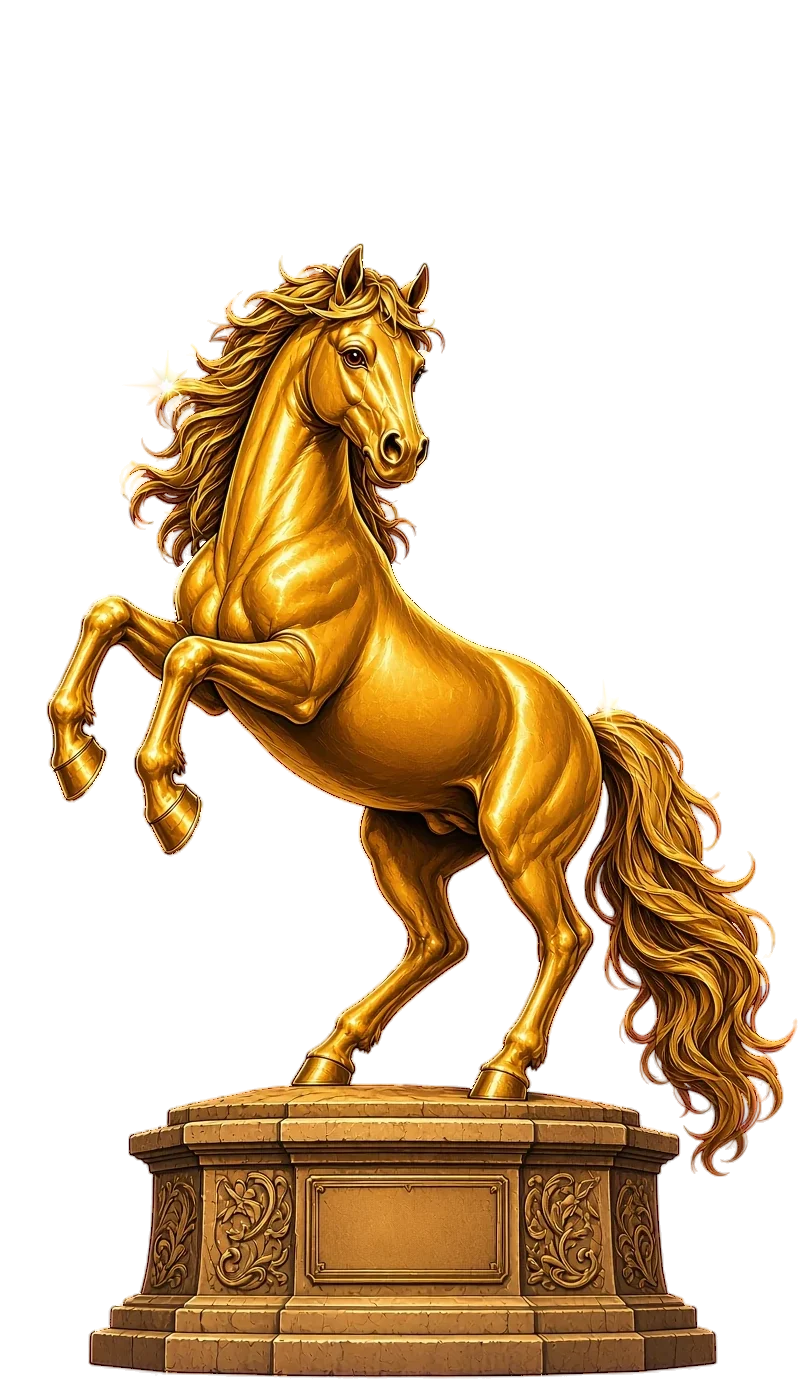
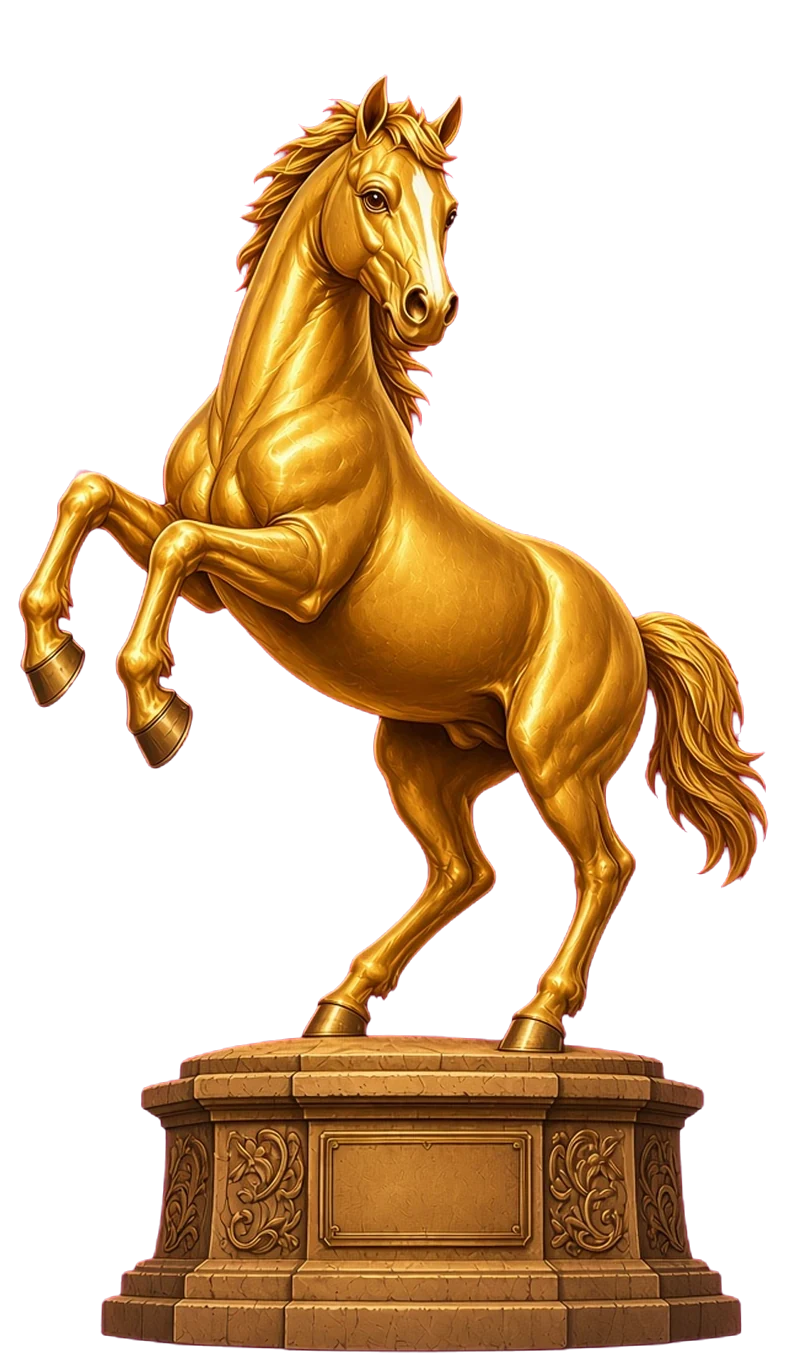
Fire Horse Plaza: Rowdy statue redrawn (bronze/fire/gold), warm fire palette, background repainted with correct paddock horses

diff --git a/fire-horse-plaza/plaza.css b/fire-horse-plaza/plaza.css
@@ -1,15 +1,15 @@
 @font-face { font-family: "Fraunces"; src: url("../fonts/Fraunces.woff2") format("woff2"); font-weight: 100 900; font-display: swap; }
 @font-face { font-family: "Fraunces"; src: url("../fonts/Fraunces-Italic.woff2") format("woff2"); font-weight: 100 900; font-style: italic; font-display: swap; }
-:root { --ink: #fff8ec; --pearl: #fbf1dc; --pink: #ffcf5a; --hot: #e23b2e; --gold: #ffd98a; --plum: #121833; --wine: #5a1414; color-scheme: dark; }
+:root { --ink: #fff8ec; --pearl: #fbf1dc; --pink: #ffcf5a; --hot: #e23b2e; --gold: #ffd98a; --plum: #1e120b; --wine: #5a1414; color-scheme: dark; }
 * { box-sizing: border-box; }
 html { scroll-behavior: smooth; background: var(--plum); }
-body { margin: 0; background: linear-gradient(#121833, #1c2347 60%, #121833); color: var(--ink); font-family: Fraunces, Georgia, serif; overflow-x: hidden; }
+body { margin: 0; background: linear-gradient(#1e120b, #2e1a0f 60%, #1e120b); color: var(--ink); font-family: Fraunces, Georgia, serif; overflow-x: hidden; }
 img { display: block; max-width: 100%; height: auto; }
 .sr-only { position: absolute; width: 1px; height: 1px; padding: 0; margin: -1px; overflow: hidden; clip: rect(0 0 0 0); white-space: nowrap; border: 0; }
 
 .scene { position: fixed; inset: 0; z-index: 0; overflow: hidden; pointer-events: none; }
 .layer { will-change: transform; }
-.sky { position: absolute; inset: -6% 0 0; background: linear-gradient(rgba(18, 24, 51, 0.08), rgba(18, 24, 51, 0.4)), url("art/plaza-bg.webp?v=3") center 70% / cover no-repeat; }
+.sky { position: absolute; inset: -6% 0 0; background: linear-gradient(rgba(30, 18, 11, 0.08), rgba(30, 18, 11, 0.4)), url("art/plaza-bg.webp?v=warm1") center 70% / cover no-repeat; }
 .glitter { position: absolute; inset: 0; }
 .gl { position: absolute; width: 5px; height: 5px; border-radius: 50%; background: #fff; box-shadow: 0 0 8px 3px rgba(255, 210, 120, 0.85); animation: twinkle var(--d, 3s) ease-in-out var(--delay, 0s) infinite; }
 @keyframes twinkle { 0%, 100% { opacity: 0.05; transform: scale(0.6); } 50% { opacity: 1; transform: scale(1.2); } }
@@ -17,7 +17,7 @@ body.entering .scene { animation: fade-in 1s ease-out both; }
 @keyframes fade-in { from { opacity: 0; transform: scale(1.08); } to { opacity: 1; transform: none; } }
 
 .fv-top { position: fixed; z-index: 5; top: 0; left: 0; right: 0; display: flex; justify-content: space-between; align-items: center; padding: 0.8rem 1rem; padding-top: max(0.8rem, env(safe-area-inset-top)); }
-.back, .mini-cta { font-weight: 700; color: var(--ink); text-decoration: none; padding: 0.45rem 0.9rem; border-radius: 999px; background: rgba(18, 24, 51, 0.82); border: 2px solid rgba(255, 215, 140, 0.6); }
+.back, .mini-cta { font-weight: 700; color: var(--ink); text-decoration: none; padding: 0.45rem 0.9rem; border-radius: 999px; background: rgba(30, 18, 11, 0.82); border: 2px solid rgba(255, 215, 140, 0.6); }
 .mini-cta { background: var(--pink); color: var(--plum); border-color: var(--plum); }
 
 main { position: relative; z-index: 2; }
@@ -108,14 +108,14 @@ h1 span { display: block; color: var(--pink); font-style: italic; -webkit-text-s
 
 @keyframes shoe-glint { 0%, 86%, 100% { opacity: 0.7; filter: drop-shadow(0 0 2px rgba(255, 215, 150, 0.6)); } 92% { opacity: 1; filter: drop-shadow(0 0 8px #fff) drop-shadow(0 0 4px rgba(255, 210, 120, 1)); } }
 .hud { position: fixed; z-index: 6; left: 1rem; bottom: max(1rem, env(safe-area-inset-bottom)); display: flex; align-items: center; gap: 0.5rem; }
-.jar { display: flex; align-items: center; gap: 0.4rem; height: 46px; padding: 0 0.8rem 0 0.5rem; border-radius: 999px; border: 2px solid var(--pink); background: rgba(18, 24, 51, 0.88); color: var(--pink); font-weight: 800; font-size: 0.9rem; box-shadow: 0 0 12px rgba(255, 190, 90, 0.35); }
+.jar { display: flex; align-items: center; gap: 0.4rem; height: 46px; padding: 0 0.8rem 0 0.5rem; border-radius: 999px; border: 2px solid var(--pink); background: rgba(30, 18, 11, 0.88); color: var(--pink); font-weight: 800; font-size: 0.9rem; box-shadow: 0 0 12px rgba(255, 190, 90, 0.35); }
 .jar-icon { width: 26px; height: 26px; background: url("art/ember.svg") center / contain no-repeat; opacity: calc(0.35 + var(--fill-n, 0) * 0.065); }
 .jar-hint { font-weight: 600; font-style: italic; color: var(--pearl); font-size: 0.8rem; }
 .jar.bump { animation: jar-bump 0.4s ease-out; }
 @keyframes jar-bump { 40% { transform: scale(1.15); } }
 @media (max-width: 480px) { .jar-hint { display: none; } }
 
-.sheet-wrap { position: fixed; inset: 0; z-index: 20; display: grid; place-items: center; padding: 1rem; background: rgba(10, 12, 28, 0.75); }
+.sheet-wrap { position: fixed; inset: 0; z-index: 20; display: grid; place-items: center; padding: 1rem; background: rgba(20, 10, 6, 0.75); }
 .sheet-wrap[hidden] { display: none; }
 .poster { position: relative; width: min(100%, 34rem); max-height: calc(100dvh - 2rem); overflow: auto; padding: 2.4rem 2.6rem 2.6rem; background: var(--pearl); color: #2a1a10; border: 4px solid var(--wine); border-radius: 6px; box-shadow: 10px 10px 0 var(--wine), 0 0 40px rgba(255, 190, 90, 0.35); text-align: center; animation: poster-in 0.5s cubic-bezier(0.2, 0.9, 0.3, 1.3); }
 .poster::before { content: ""; position: absolute; inset: 8px; border: 2px dashed rgba(90, 20, 20, 0.4); border-radius: 3px; pointer-events: none; }
@@ -174,13 +174,13 @@ h1 span { display: block; color: var(--pink); font-style: italic; -webkit-text-s
 
 /* stables: day / night */
 .top-r { display: flex; gap: 0.5rem; }
-.dn { font: inherit; font-weight: 700; cursor: pointer; color: var(--ink); padding: 0.45rem 0.9rem; border-radius: 999px; background: rgba(18, 24, 51, 0.82); border: 2px solid rgba(255, 215, 140, 0.6); }
+.dn { font: inherit; font-weight: 700; cursor: pointer; color: var(--ink); padding: 0.45rem 0.9rem; border-radius: 999px; background: rgba(30, 18, 11, 0.82); border: 2px solid rgba(255, 215, 140, 0.6); }
 .statue { cursor: default; }
 .statue img { transition: opacity 0.4s; }
-.now { margin: 0.6rem auto 0; max-width: 30rem; padding: 0.55rem 1.1rem; border-radius: 999px; background: rgba(18, 24, 51, 0.78); border: 2px solid rgba(255, 215, 140, 0.55); font-weight: 700; text-align: center; }
+.now { margin: 0.6rem auto 0; max-width: 30rem; padding: 0.55rem 1.1rem; border-radius: 999px; background: rgba(30, 18, 11, 0.78); border: 2px solid rgba(255, 215, 140, 0.55); font-weight: 700; text-align: center; }
 .tag { display: inline-block; margin: 0 0 0.5rem; padding: 0.15rem 0.6rem; border-radius: 999px; font-size: 0.72rem; font-weight: 800; letter-spacing: 0.14em; text-transform: uppercase; background: var(--gold); color: var(--wine); }
-.tag.n { background: #1d2a5c; color: #ffe9a8; border: 1px solid #ffd98a; }
-.night-wash { position: absolute; inset: 0; background: radial-gradient(ellipse at 18% 8%, rgba(255, 245, 200, 0.35), transparent 30%), radial-gradient(ellipse at 82% 8%, rgba(255, 245, 200, 0.3), transparent 30%), linear-gradient(rgba(8, 12, 40, 0.72), rgba(10, 14, 36, 0.82)); opacity: 0; transition: opacity 0.8s; }
+.tag.n { background: #5a1f0e; color: #ffe9a8; border: 1px solid #ffd98a; }
+.night-wash { position: absolute; inset: 0; background: radial-gradient(ellipse at 18% 8%, rgba(255, 245, 200, 0.35), transparent 30%), radial-gradient(ellipse at 82% 8%, rgba(255, 245, 200, 0.3), transparent 30%), linear-gradient(rgba(24, 12, 6, 0.72), rgba(20, 10, 5, 0.82)); opacity: 0; transition: opacity 0.8s; }
 body.night .night-wash { opacity: 1; }
 body.night .card h2 { text-shadow: 0 0 14px rgba(255, 240, 190, 0.7); }
 .feature[data-time] { transition: opacity 0.6s, filter 0.6s; }
@@ -190,7 +190,7 @@ body:not(.night) .feature[data-time="night"] .art img, body.night .feature[data-
 .halo { display: none; }
 
 /* fire horse plaza: ceremony */
-body { background: linear-gradient(#121833, #2a1630 60%, #121833); }
+body { background: linear-gradient(#1e120b, #3a1a0e 60%, #1e120b); }
 .statue { cursor: pointer; width: min(62vw, 300px); }
 .statue .stack { position: relative; display: block; }
 .statue .stack img { transition: opacity 0.9s ease; }

diff --git a/fire-horse-plaza/index.html b/fire-horse-plaza/index.html
@@ -5,13 +5,13 @@
     <meta name="viewport" content="width=device-width, initial-scale=1, viewport-fit=cover">
     <title>Fire Horse Plaza | Rowdyland</title>
     <meta name="description" content="Fire Horse Plaza, the heart of Rowdyland. On the final night, just before the headliner, Rowdy the statue goes ablaze to the Rowdyland anthem and is revealed in gold.">
-    <meta name="theme-color" content="#121833">
+    <meta name="theme-color" content="#1e120b">
     <link rel="icon" href="../favicon.ico?v=2" sizes="any">
     <link rel="icon" href="../favicon-32.png?v=2" sizes="32x32" type="image/png">
     <link rel="apple-touch-icon" href="../apple-touch-icon.png?v=2">
-    <link rel="preload" href="art/plaza-bg.webp?v=3" as="image" type="image/webp">
+    <link rel="preload" href="art/plaza-bg.webp?v=warm1" as="image" type="image/webp">
     <link rel="preload" href="../fonts/Fraunces.woff2" as="font" type="font/woff2" crossorigin>
-    <link rel="stylesheet" href="plaza.css?v=6gps">
+    <link rel="stylesheet" href="plaza.css?v=7warm">
   </head>
   <body class="entering">
     <div class="scene" aria-hidden="true">
@@ -32,9 +32,9 @@
         <p class="lede">The heart of Rowdyland. Where Rowdy burns and rises in gold.</p>
         <button type="button" class="statue" id="statue" aria-label="Start the fire ceremony" aria-pressed="false">
           <span class="stack">
-            <img id="img-stone" src="art/hero-statue.webp?v=1" alt="Rowdy, a giant bronze horse statue on a stone pedestal" width="806" height="1379">
-            <img id="img-fire" src="art/hero-fire.webp?v=1" alt="" aria-hidden="true" width="806" height="1379">
-            <img id="img-gold" src="art/hero-gold.webp?v=1" alt="" aria-hidden="true" width="806" height="1379">
+            <img id="img-stone" src="art/hero-statue.webp?v=rowdy1" alt="Rowdy, a giant bronze horse statue on a stone pedestal" width="806" height="1359">
+            <img id="img-fire" src="art/hero-fire.webp?v=rowdy1" alt="" aria-hidden="true" width="806" height="1359">
+            <img id="img-gold" src="art/hero-gold.webp?v=rowdy1" alt="" aria-hidden="true" width="806" height="1359">
           </span>
           <span class="pp-bubble" aria-hidden="true">Light the fire &#128293;</span>
         </button>
@@ -49,12 +49,12 @@
 
       <section class="panel feature right" id="when" data-time="night">
         <div class="card"><span class="tag n">Final night</span><h2>After the Sun Sets</h2><p>When the sky goes dark and the main stage goes quiet, everyone turns to the plaza.</p></div>
-        <div class="art" data-speed="-0.08"><img src="art/statue.webp?v=1" alt="Rowdy, a giant bronze horse statue rearing on a carved stone pedestal"></div>
+        <div class="art" data-speed="-0.08"><img src="art/statue.webp?v=rowdy1" alt="Rowdy, a giant bronze horse statue rearing on a carved stone pedestal"></div>
       </section>
 
       <section class="panel feature left" id="ceremony" data-time="night">
         <div class="card"><span class="tag n">Final night</span><h2>The Fire Ceremony</h2><p>Throw what you are done carrying into the fire and walk out new. Rowdy comes out gold, and so do we.</p></div>
-        <div class="art" data-speed="-0.08"><img src="art/fire.webp?v=1" alt="The bronze horse statue Rowdy engulfed in flames rising into the sky"></div>
+        <div class="art" data-speed="-0.08"><img src="art/fire.webp?v=rowdy1" alt="The bronze horse statue Rowdy engulfed in flames rising into the sky"></div>
       </section>
 
       <section class="panel feature right" id="anthem">
@@ -64,11 +64,11 @@
 
       <section class="panel feature left" id="gold" data-time="night">
         <div class="card"><span class="tag n">The finale</span><h2>Revealed in Gold</h2><p>The fire shoots into the sky. When it burns out, Rowdy stands there shining in gold.</p></div>
-        <div class="art" data-speed="-0.08"><img src="art/gold.webp?v=1" alt="Rowdy the horse statue gleaming in gold on its stone pedestal"></div>
+        <div class="art" data-speed="-0.08"><img src="art/gold.webp?v=rowdy1" alt="Rowdy the horse statue gleaming in gold on its stone pedestal"></div>
       </section>
 
       <section class="panel cta" id="tickets">
-        <img class="cta-horse" src="art/gold.webp?v=1" alt="" aria-hidden="true">
+        <img class="cta-horse" src="art/gold.webp?v=rowdy1" alt="" aria-hidden="true">
         <h2>Be there when Rowdy burns</h2>
         <a class="big-cta" href="#reserve" data-reserve>Get your tickets now!</a>
         <p class="fine">Ticket sales open soon. Save your spot and we'll let you know first.</p>
